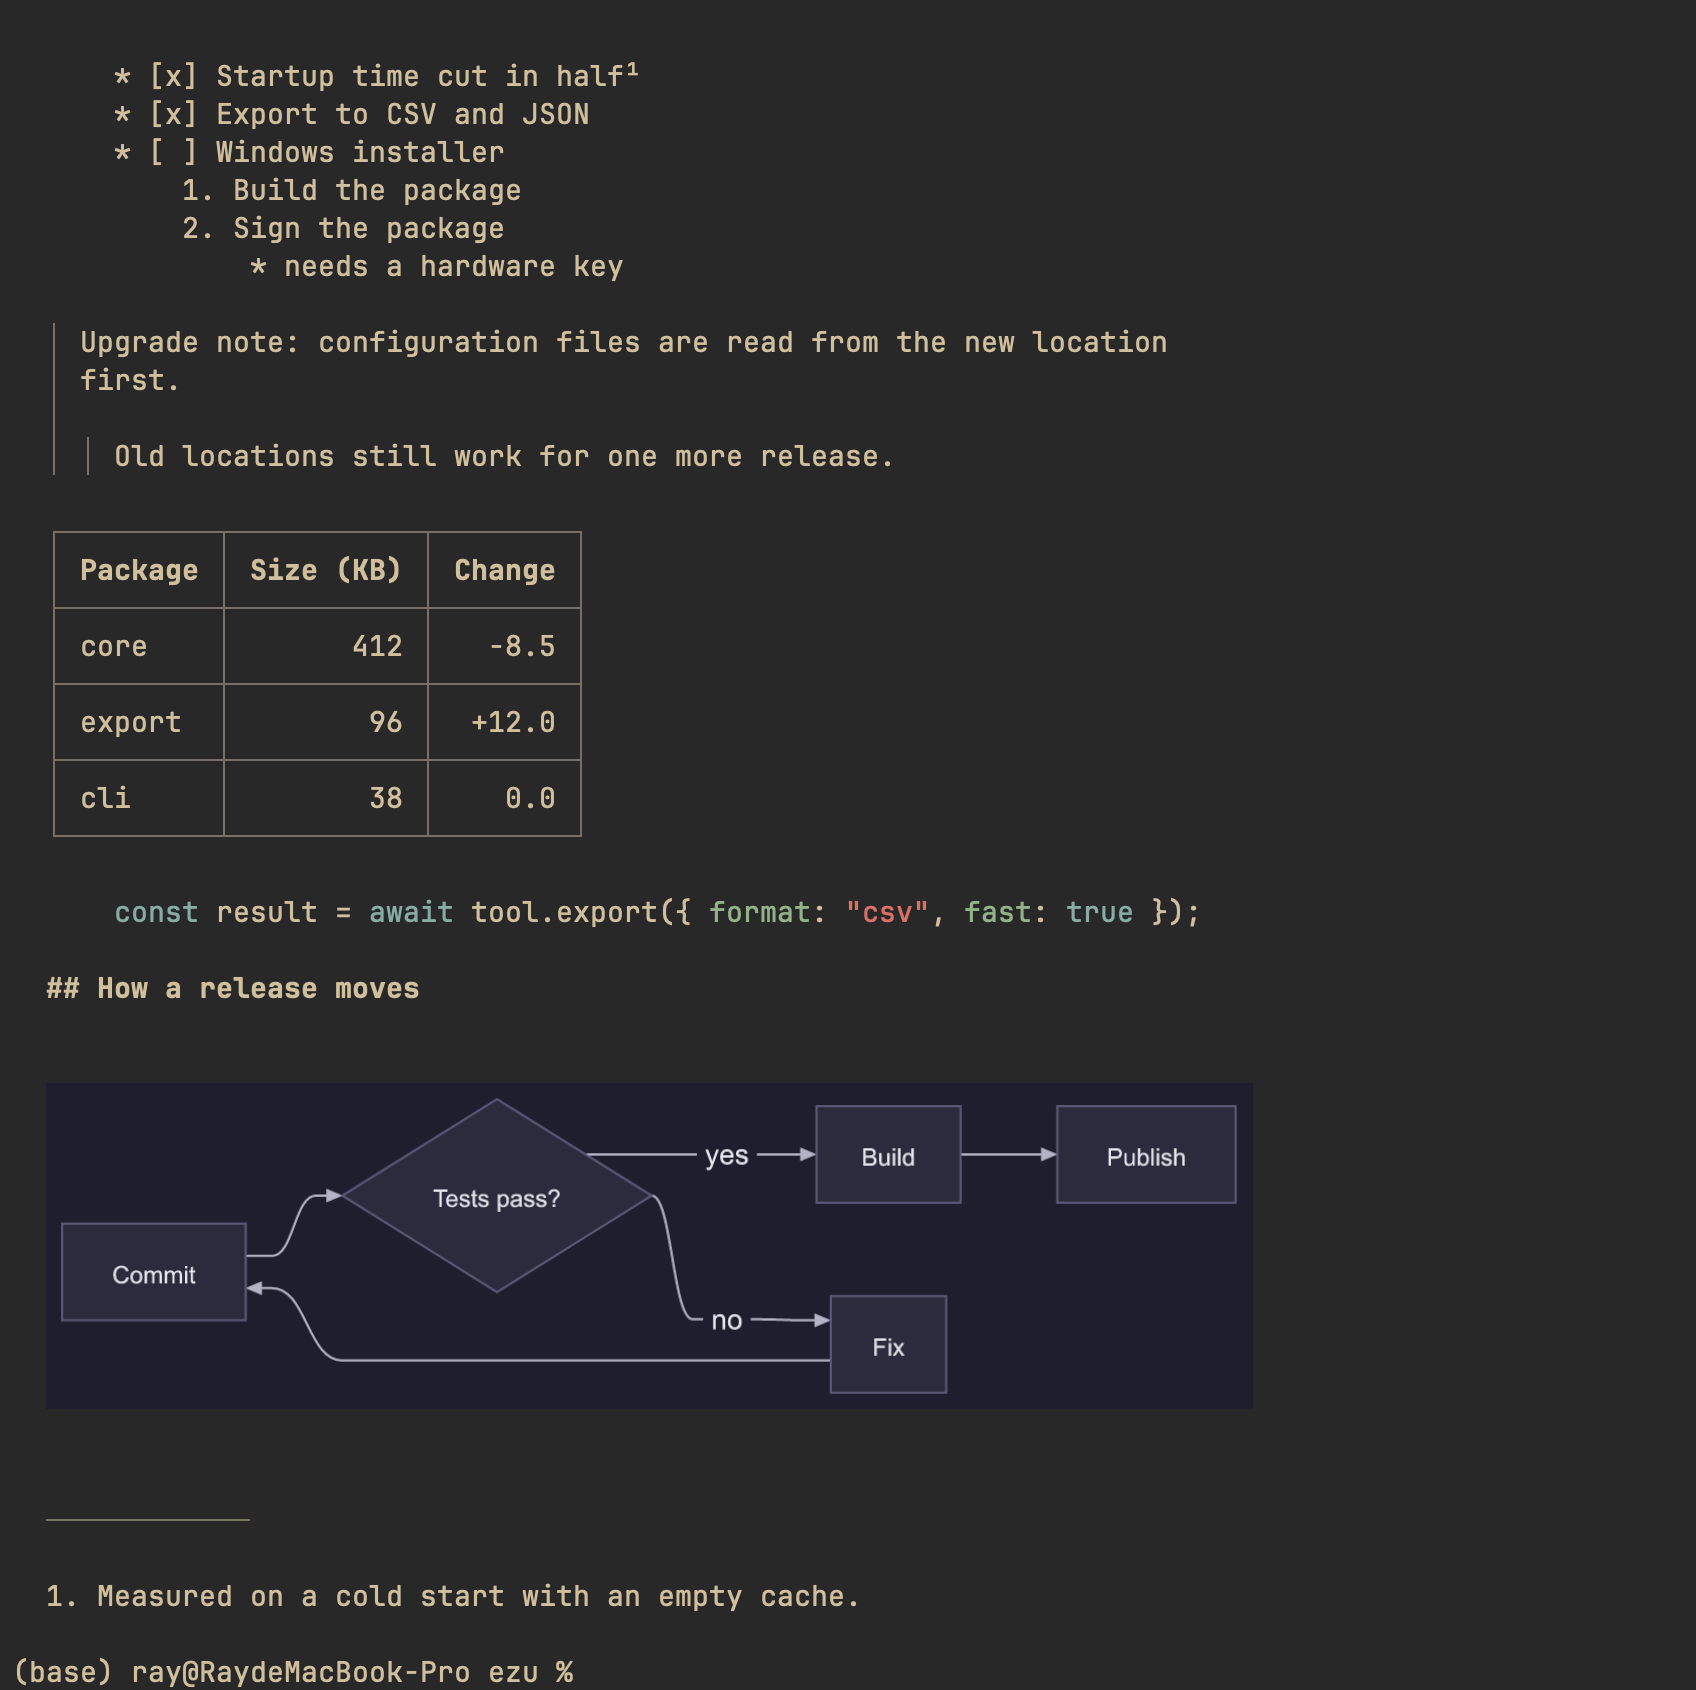
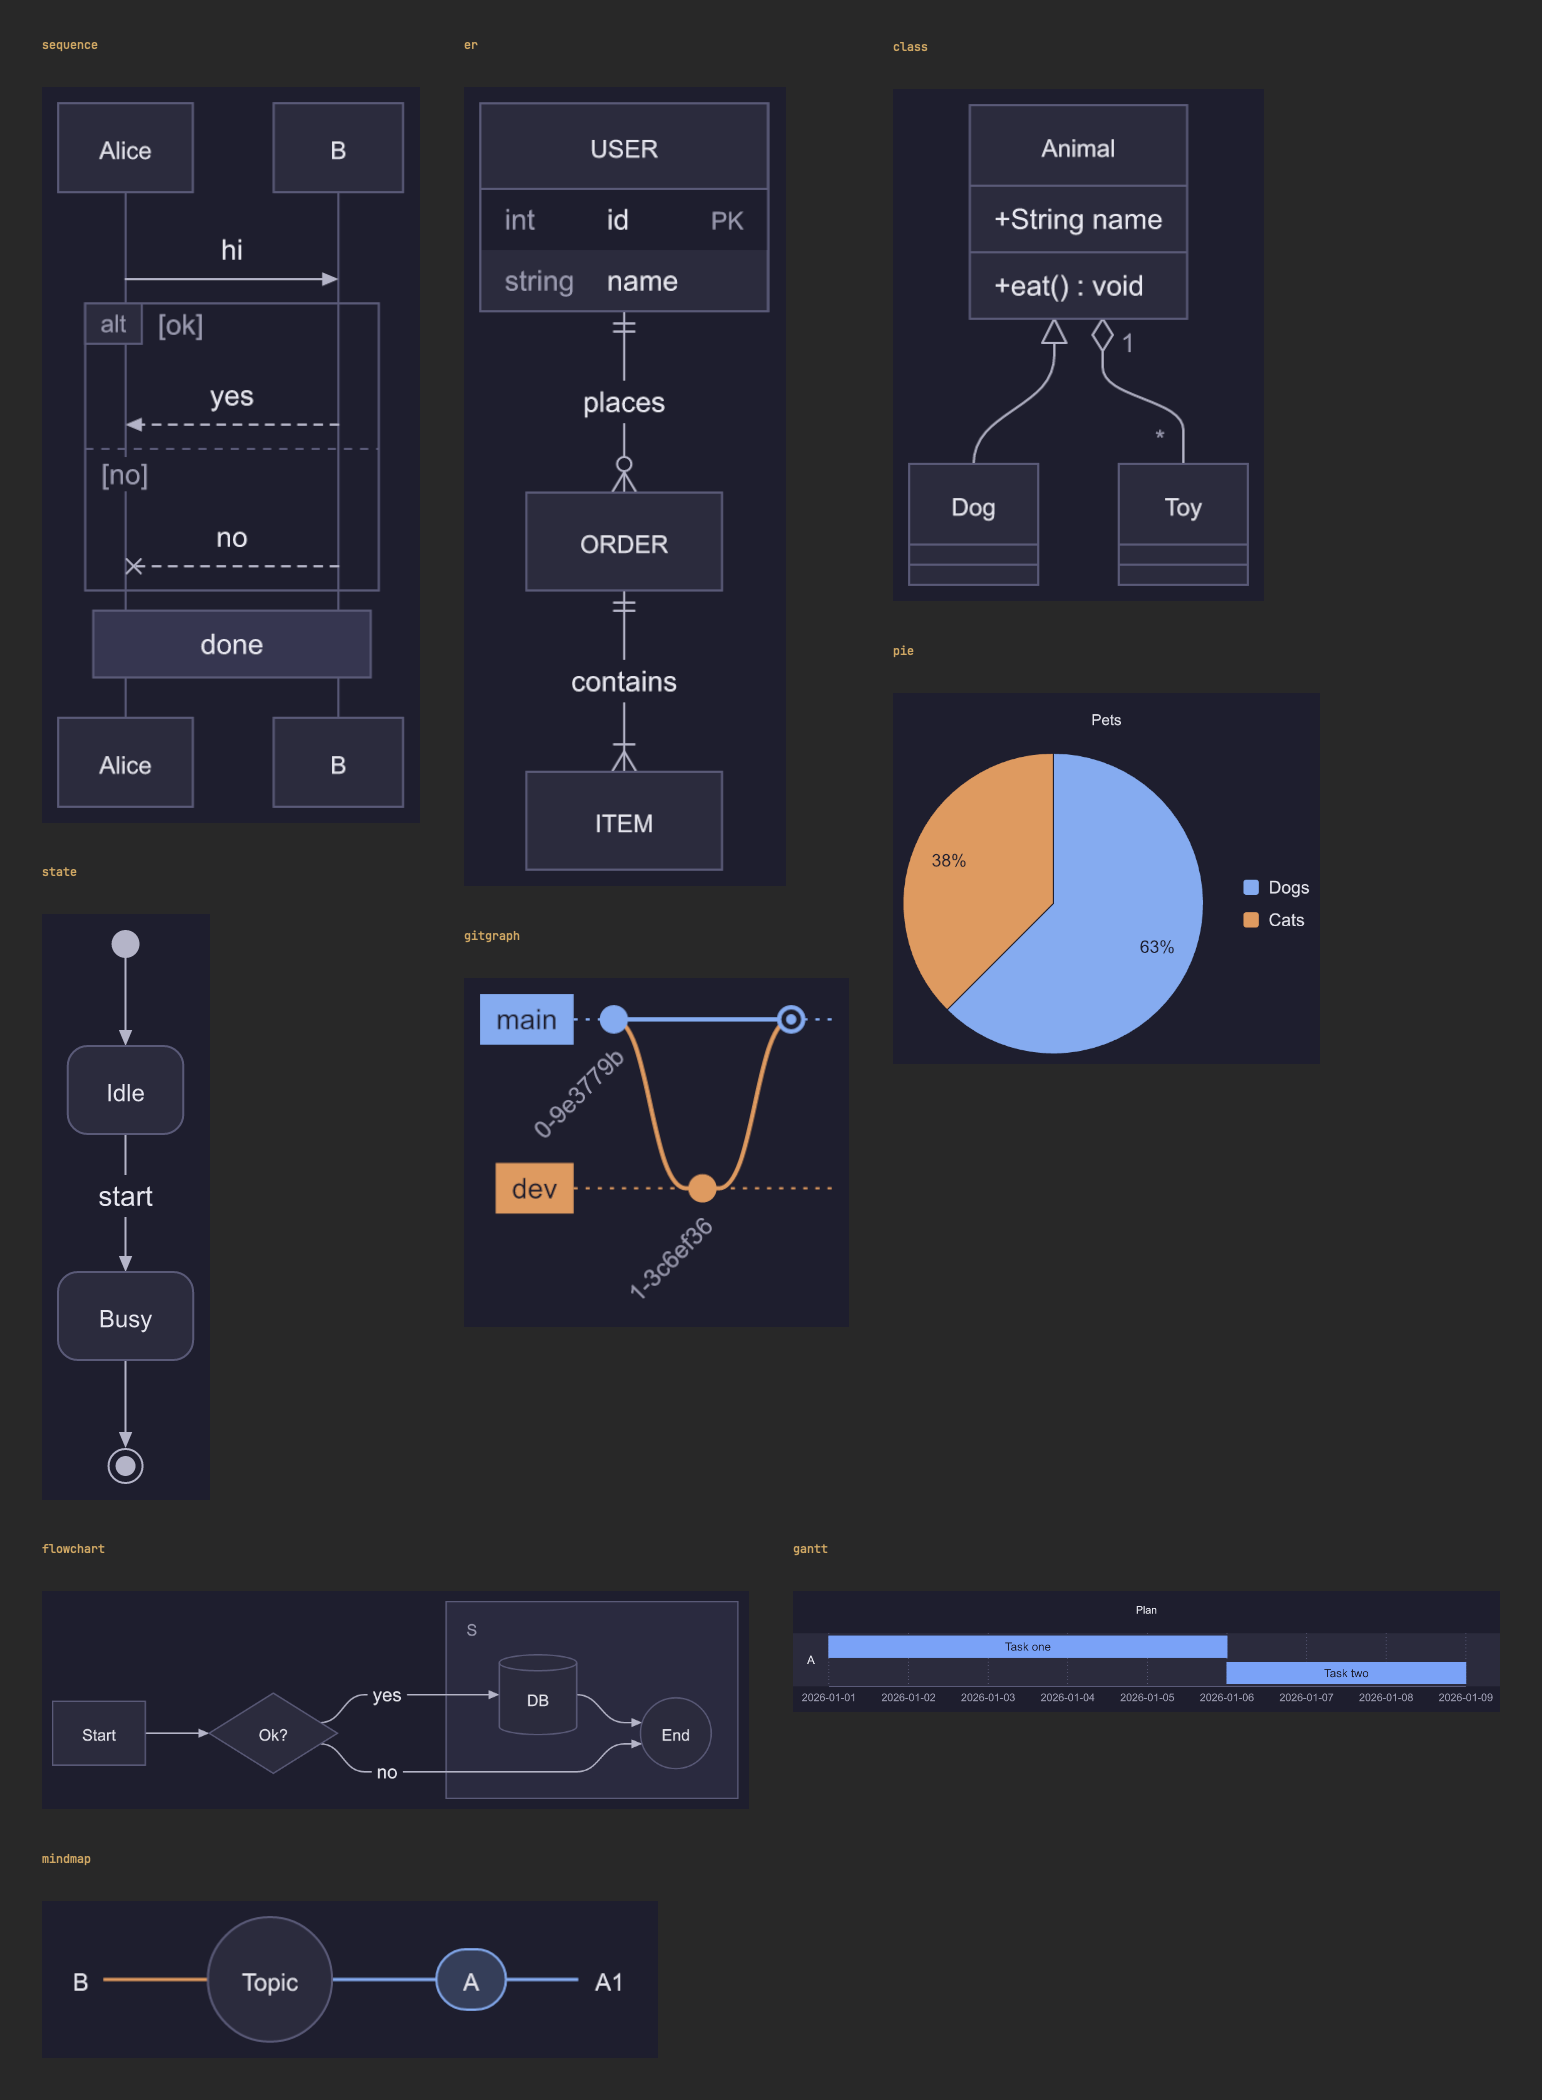
Add chart series colors and a nine-diagram screenshot
Dark and light themes now define series-1 to series-8, so pie and other charts stop falling back to pele's Tableau colors. The new colors use one OKLCH lightness and chroma per theme (6.7:1 or more on the dark background). Replace diagrams.png with nine real Ghostty captures, one per diagram type, arranged into one image.

diff --git a/ezu.js b/ezu.js
@@ -16,6 +16,11 @@ import { pathToFileURL } from 'node:url';
 
 const DARK = { bg: '#1e1e2e', fg: '#e6e6ef', muted: '#9a9ab0', line: '#b4b4c8', surface: '#2b2b3d',
   'surface-alt': '#363650', border: '#5a5a78', accent: '#7aa2f7' };
+// Chart series colors: OKLCH hue steps at one lightness and chroma, so no slice outshouts another.
+// Dark L=0.74 C=0.11 (6.7:1 or more on bg), light L=0.55 C=0.13.
+const series = list => Object.fromEntries(list.map((c, i) => [`series-${i + 1}`, c]));
+const DARK_SERIES = series(['#85abf0', '#de9a60', '#76be86', '#e88f87', '#c097df', '#3ebfc6', '#c0aa54', '#df8db5']);
+const LIGHT_SERIES = series(['#466fbd', '#aa5910', '#298646', '#b14e49', '#8959aa', '#00878f', '#8a6f00', '#a84e7c']);
 const LIGHT = { bg: '#ffffff', fg: '#1f1f1f', muted: '#6e6e6e', line: '#1f1f1f', surface: '#f3f3f3',
   'surface-alt': '#e6e6e6', border: '#8a8a8a', accent: '#5b7bd5' };
 
@@ -82,7 +87,7 @@ export function fontOptions(svg, dirs = FONT_DIRS) {
 }
 
 export function toPng(text, { light = false } = {}) {
-  const theme = light ? LIGHT : DARK;
+  const theme = light ? { ...LIGHT, ...LIGHT_SERIES } : { ...DARK, ...DARK_SERIES };
   const { svg } = render(text);
   const flat = flatten(selfContained(svg), theme);
   if (/var\(/.test(flat)) throw new Error('unresolved var() in svg');

diff --git a/README.md b/README.md
@@ -13,10 +13,10 @@
 - **Safe on untrusted files.** See [Security](#security).
 
 <p align="center">
-  <img src="assets/diagrams.png" alt="The lower half of the same document in ezu: a table, a highlighted code block, a footnote and a Mermaid flowchart drawn inline" width="760">
+  <img src="assets/diagrams.png" alt="Nine Mermaid diagram types drawn by ezu in Ghostty: flowchart, sequence, class, state, er, gantt, pie, gitgraph and mindmap" width="760">
 </p>
 
-<sub>Both images are real screenshots of ezu running <code>ezu demo/demo.md</code> in Ghostty. The second shows the lower half of the same output. The content is invented.</sub>
+<sub>Both images are real screenshots of ezu running in Ghostty. The first is <code>ezu demo/demo.md</code>. In the second, each diagram type was captured in its own window and the nine captures were arranged into one image. The content is invented.</sub>
 
 ## Install
 
